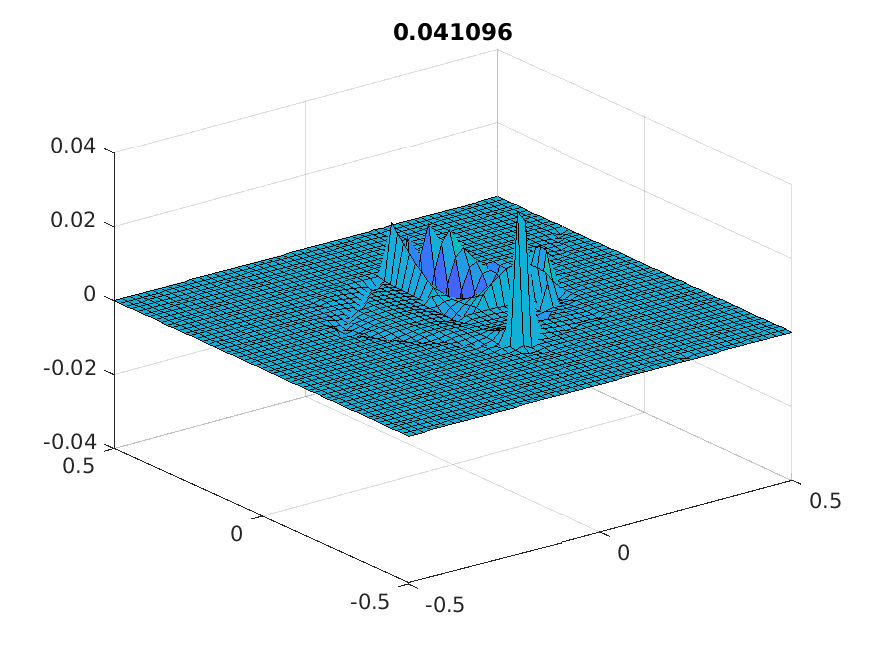
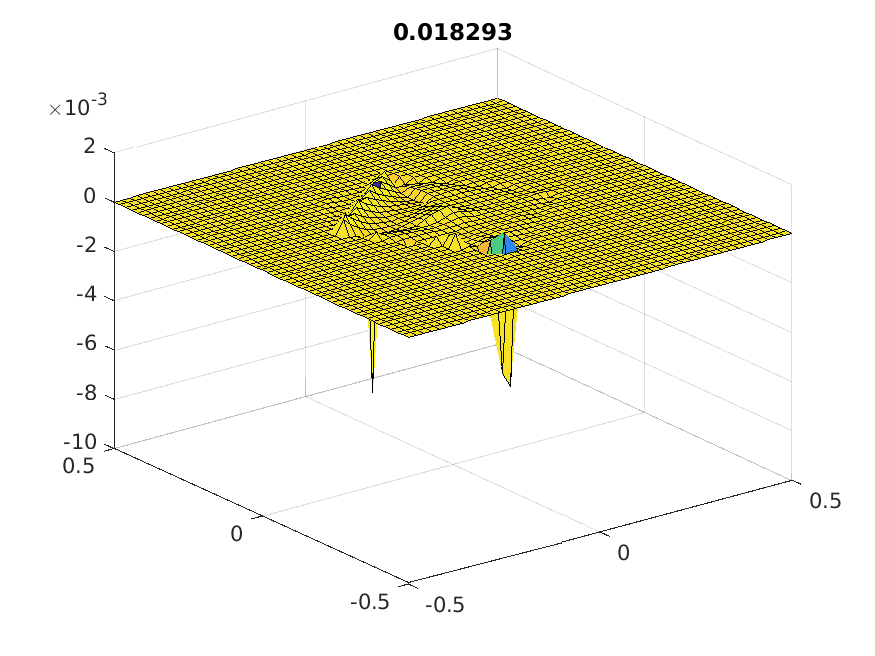
some testing

diff --git a/Codes1.1/Codes3D/tests/test_fluxes.m b/Codes1.1/Codes3D/tests/test_fluxes.m
@@ -3,31 +3,31 @@
 % compare the fluxes from Maxwell3D with the fluxes from Lawson
 
 Globals3D; 
-N = 1;
-[Nv, VX, VY, VZ, K, EToV] = MeshReaderGambit3D('cubeK5.neu');
+N = 3;
+[Nv, VX, VY, VZ, K, EToV] = MeshReaderGambit3D('cubeK86.neu');
 StartUp3D;
 
-% Ex = sin(1*pi*x).*sin(1*pi*y);
-% Ey = sin(2*pi*x).*sin(2*pi*y);
-% Ez = sin(3*pi*x).*sin(3*pi*y);
-% Hx = sin(4*pi*x).*sin(4*pi*y);
-% Hy = sin(5*pi*x).*sin(5*pi*y);
-% Hz = sin(6*pi*x).*sin(6*pi*y);
+Ex = sin(1*pi*x).*sin(1*pi*y);
+Ey = sin(2*pi*x).*sin(2*pi*y);
+Ez = sin(3*pi*x).*sin(3*pi*y);
+Hx = sin(4*pi*x).*sin(4*pi*y);
+Hy = sin(5*pi*x).*sin(5*pi*y);
+Hz = sin(6*pi*x).*sin(6*pi*y);
 
-% Ex = 1 * ones(Np,K);
-% Ey = 2 * ones(Np,K);
-% Ez = 3 * ones(Np,K);
-% Hx = 4 * ones(Np,K);
-% Hy = 5 * ones(Np,K);
-% Hz = 6 * ones(Np,K);
+% Ex = 1 * rand(Np,K);
+% Ey = 2 * rand(Np,K);
+% Ez = 3 * rand(Np,K);
+% Hx = 4 * rand(Np,K);
+% Hy = 5 * rand(Np,K);
+% Hz = 6 * rand(Np,K);
 
-Ex = 0 * ones(Np,K);
-Ey = 0 * ones(Np,K);
-Ez = 0 * ones(Np,K);
-Hx = 0 * ones(Np,K);
-Hy = 0 * ones(Np,K);
-Hz = 0 * ones(Np,K);
-Hx(:,3) = 1 * ones(Np,1);
+% Ex = 0 * ones(Np,K);
+% Ey = 0 * ones(Np,K);
+% Ez = 0 * ones(Np,K);
+% Hx = 0 * ones(Np,K);
+% Hy = 0 * ones(Np,K);
+% Hz = 0 * ones(Np,K);
+% Hx(:,3) = 1 * ones(Np,1);
 
 U = FieldsToU(Hx, Hy, Hz, Ex, Ey, Ez);
 

diff --git a/Codes1.1/Codes3D/tests/test_conversion.m b/Codes1.1/Codes3D/tests/test_conversion.m
@@ -1,7 +1,9 @@
-%% test conversion between U and Fields
+Globals3D; 
+N = 3;
+[Nv, VX, VY, VZ, K, EToV] = MeshReaderGambit3D('cubeK268.neu');
+StartUp3D;
 
-Hx = zeros(Np, K); Hy = zeros(Np, K); Hz = zeros(Np, K);
-Ex = zeros(Np, K); Ey = zeros(Np, K); Ez = zeros(Np, K);
+%% test conversion between U and Fields
 
 Ex = sin(1*pi*x).*sin(1*pi*y);
 Ey = sin(2*pi*x).*sin(2*pi*y);
@@ -21,6 +23,34 @@ norm(Ey - Ey2)
 norm(Ez - Ez2)
 
 % Conclusion: the conversions work properly.
+
+%% test conversion for idx
+
+Ex = sin(1*pi*x).*sin(1*pi*y);
+Ey = sin(2*pi*x).*sin(2*pi*y);
+Ez = sin(3*pi*x).*sin(3*pi*y);
+Hx = sin(4*pi*x).*sin(4*pi*y);
+Hy = sin(5*pi*x).*sin(5*pi*y);
+Hz = sin(6*pi*x).*sin(6*pi*y);
+
+U = FieldsToU(Hx, Hy, Hz, Ex, Ey, Ez);
+
+% add some value on one element
+idx = findNearestNode([0,0,0]);
+Ez(:, idx(2)) = Ez(:, idx(2)) + 1000;
+
+idx = [(1:Np)', idx(2)*ones(Np,1)]; 
+idx = idxEH_to_idxU(3, idx);
+U(idx) = U(idx) + 1000;
+
+[Hx2, Hy2, Hz2, Ex2, Ey2, Ez2] = UToFields(U);
+
+norm(Hx - Hx2)
+norm(Hy - Hy2)
+norm(Hz - Hz2)
+norm(Ex - Ex2)
+norm(Ey - Ey2)
+norm(Ez - Ez2)
 
 %% test conversion and reordering
 fine_idx = [145, 345, 2, 1002, 53];

diff --git a/Codes1.1/Codes3D/tests/test_RHS.m b/Codes1.1/Codes3D/tests/test_RHS.m
@@ -1,0 +1,36 @@
+% Compare RHS
+%clear all
+Globals3D; 
+N = 3;
+[Nv, VX, VY, VZ, K, EToV] = MeshReaderGambit3D('cubeK86.neu');
+StartUp3D;
+
+
+fine_idx = [];
+InitMatLawsonSparse;
+%%
+
+Ex = sin(1*pi*x).*sin(1*pi*y);
+Ey = sin(2*pi*x).*sin(2*pi*y);
+Ez = sin(3*pi*x).*sin(3*pi*y);
+Hx = sin(4*pi*x).*sin(4*pi*y);
+Hy = sin(5*pi*x).*sin(5*pi*y);
+Hz = sin(6*pi*x).*sin(6*pi*y);
+U = FieldsToU(Hx, Hy, Hz, Ex, Ey, Ez);
+
+% Original code
+[rhsHx, rhsHy, rhsHz, rhsEx, rhsEy, rhsEz] = MaxwellRHS3D(Hx,Hy,Hz,Ex,Ey,Ez);
+
+% Lawson
+rhsU = Ccoarse * U;
+[rhsHx2, rhsHy2, rhsHz2, rhsEx2, rhsEy2, rhsEz2] = UToFields(U);
+
+% Comparison
+norm(rhsHx - rhsHx2)
+norm(rhsHy - rhsHy2)
+norm(rhsHz - rhsHz2)
+norm(rhsEx - rhsEx2)
+norm(rhsEy - rhsEy2)
+norm(rhsEz - rhsEz2)
+
+% Dmat + Kmat = Ccoarse confirmed

diff --git a/Codes1.1/Codes3D/MaxwellRHS3D.m b/Codes1.1/Codes3D/MaxwellRHS3D.m
@@ -14,10 +14,11 @@ dHx(:)  = Hx(vmapP)-Hx(vmapM);  dEx(:)  = Ex(vmapP)-Ex(vmapM);
 dHy(:)  = Hy(vmapP)-Hy(vmapM); 	dEy(:)  = Ey(vmapP)-Ey(vmapM);	
 dHz(:)  = Hz(vmapP)-Hz(vmapM);  dEz(:)  = Ez(vmapP)-Ez(vmapM);  
 
+% NO BOUNDARY CONDITIONS
 % make silver mueller boundary conditions
-dHx(mapB) = -2*Hx(vmapB);  dEx(mapB) = -2*Ex(vmapB); 
-dHy(mapB) = -2*Hy(vmapB);  dEy(mapB) = -2*Ey(vmapB); 
-dHz(mapB) = -2*Hz(vmapB);  dEz(mapB) = -2*Ez(vmapB);
+% dHx(mapB) = -2*Hx(vmapB);  dEx(mapB) = -2*Ex(vmapB); 
+% dHy(mapB) = -2*Hy(vmapB);  dEy(mapB) = -2*Ey(vmapB); 
+% dHz(mapB) = -2*Hz(vmapB);  dEz(mapB) = -2*Ez(vmapB);
 
 alpha=0;
 

diff --git a/Codes1.1/Codes3D/Maxwell3DMat.m b/Codes1.1/Codes3D/Maxwell3DMat.m
@@ -13,7 +13,8 @@ Ez_time = [];
 f = figure('visible','off');
 PlotPlain3D(0, Ez); drawnow; pause(0.1);
 filename = "field" + num2str(1+ ".png");
-saveas(f,filename)
+saveas(f,filename);
+close;
 
 U = FieldsToU(Hx, Hy, Hz, Ex, Ey, Ez);
 
@@ -61,11 +62,11 @@ while (time<FinalTime) % outer time step loop
        PlotPlain3D(0, Ez); drawnow; pause(0.01);
        title(num2str(time));
        filename = "field" + num2str(tstep + ".png");
-       saveas(f,filename)
+       saveas(f,filename);
+       close;
   %end
 end
 
 % convert U back to field components
 [Hx,Hy,Hz,Ex,Ey,Ez] = UToFields(U);
 return;
-

diff --git a/Codes1.1/Codes3D/InitMatLawsonSparse.m b/Codes1.1/Codes3D/InitMatLawsonSparse.m
@@ -33,12 +33,11 @@ for i = 1:K
     
     % Add the S_ikPlus
     for j = 1:4
-        k = EToE(i,j);
+        k = EToE(i,j); % k is the index of the neighbour element
         if k == i % check for boundary
             continue
         end
         
-        % Check whether to write into Cfine or Ccoarse
         if ismember(k, fine_idx)
             Cfine((i-1)*blksize+1:i*blksize, (k-1)*blksize+1+K*blksize:k*blksize+K*blksize) = -invMi * S_ikPlusLawson(i,k,r,s,t);
         else

diff --git a/Codes1.1/Codes3D/tests/test_Curls.m b/Codes1.1/Codes3D/tests/test_Curls.m
@@ -1,8 +1,8 @@
 % compare the curls from Curl3D with the curls from Lawson
 
 Globals3D; 
-N = 1;
-[Nv, VX, VY, VZ, K, EToV] = MeshReaderGambit3D('cube.neu');
+N = 3;
+[Nv, VX, VY, VZ, K, EToV] = MeshReaderGambit3D('cubeK86.neu');
 StartUp3D;
 
 %%

diff --git a/Codes1.1/Codes3D/tests/test.m b/Codes1.1/Codes3D/tests/test.m
@@ -6,7 +6,7 @@
 Globals3D;
 
 % Polynomial order of approximation 
-N = 2;
+N = 3;
 
 % Read in Mesh
 [Nv, VX, VY, VZ, K, EToV] = MeshReaderGambit3D('cubeK268.neu');
